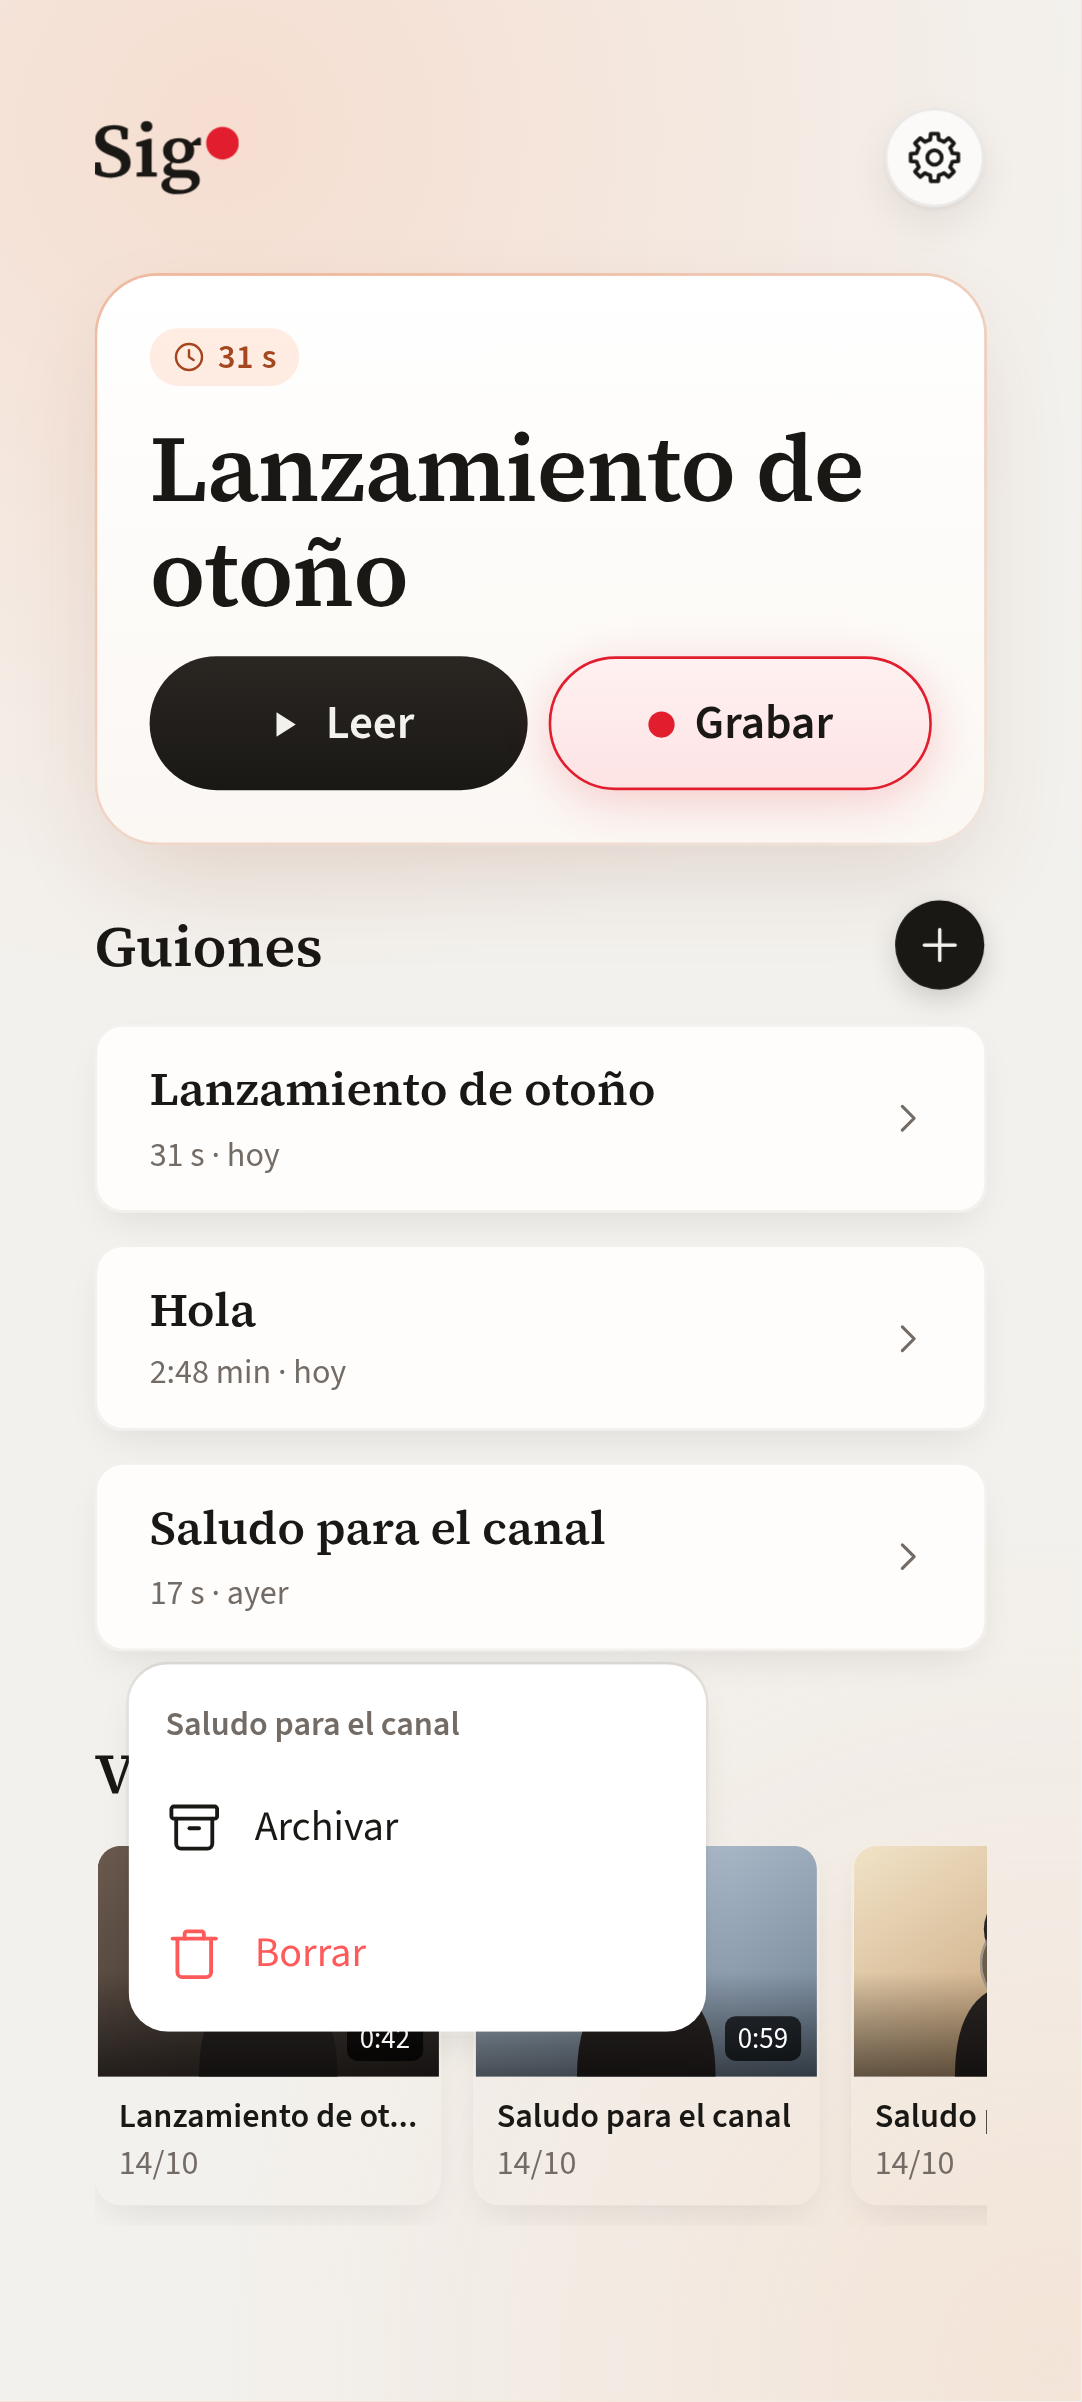
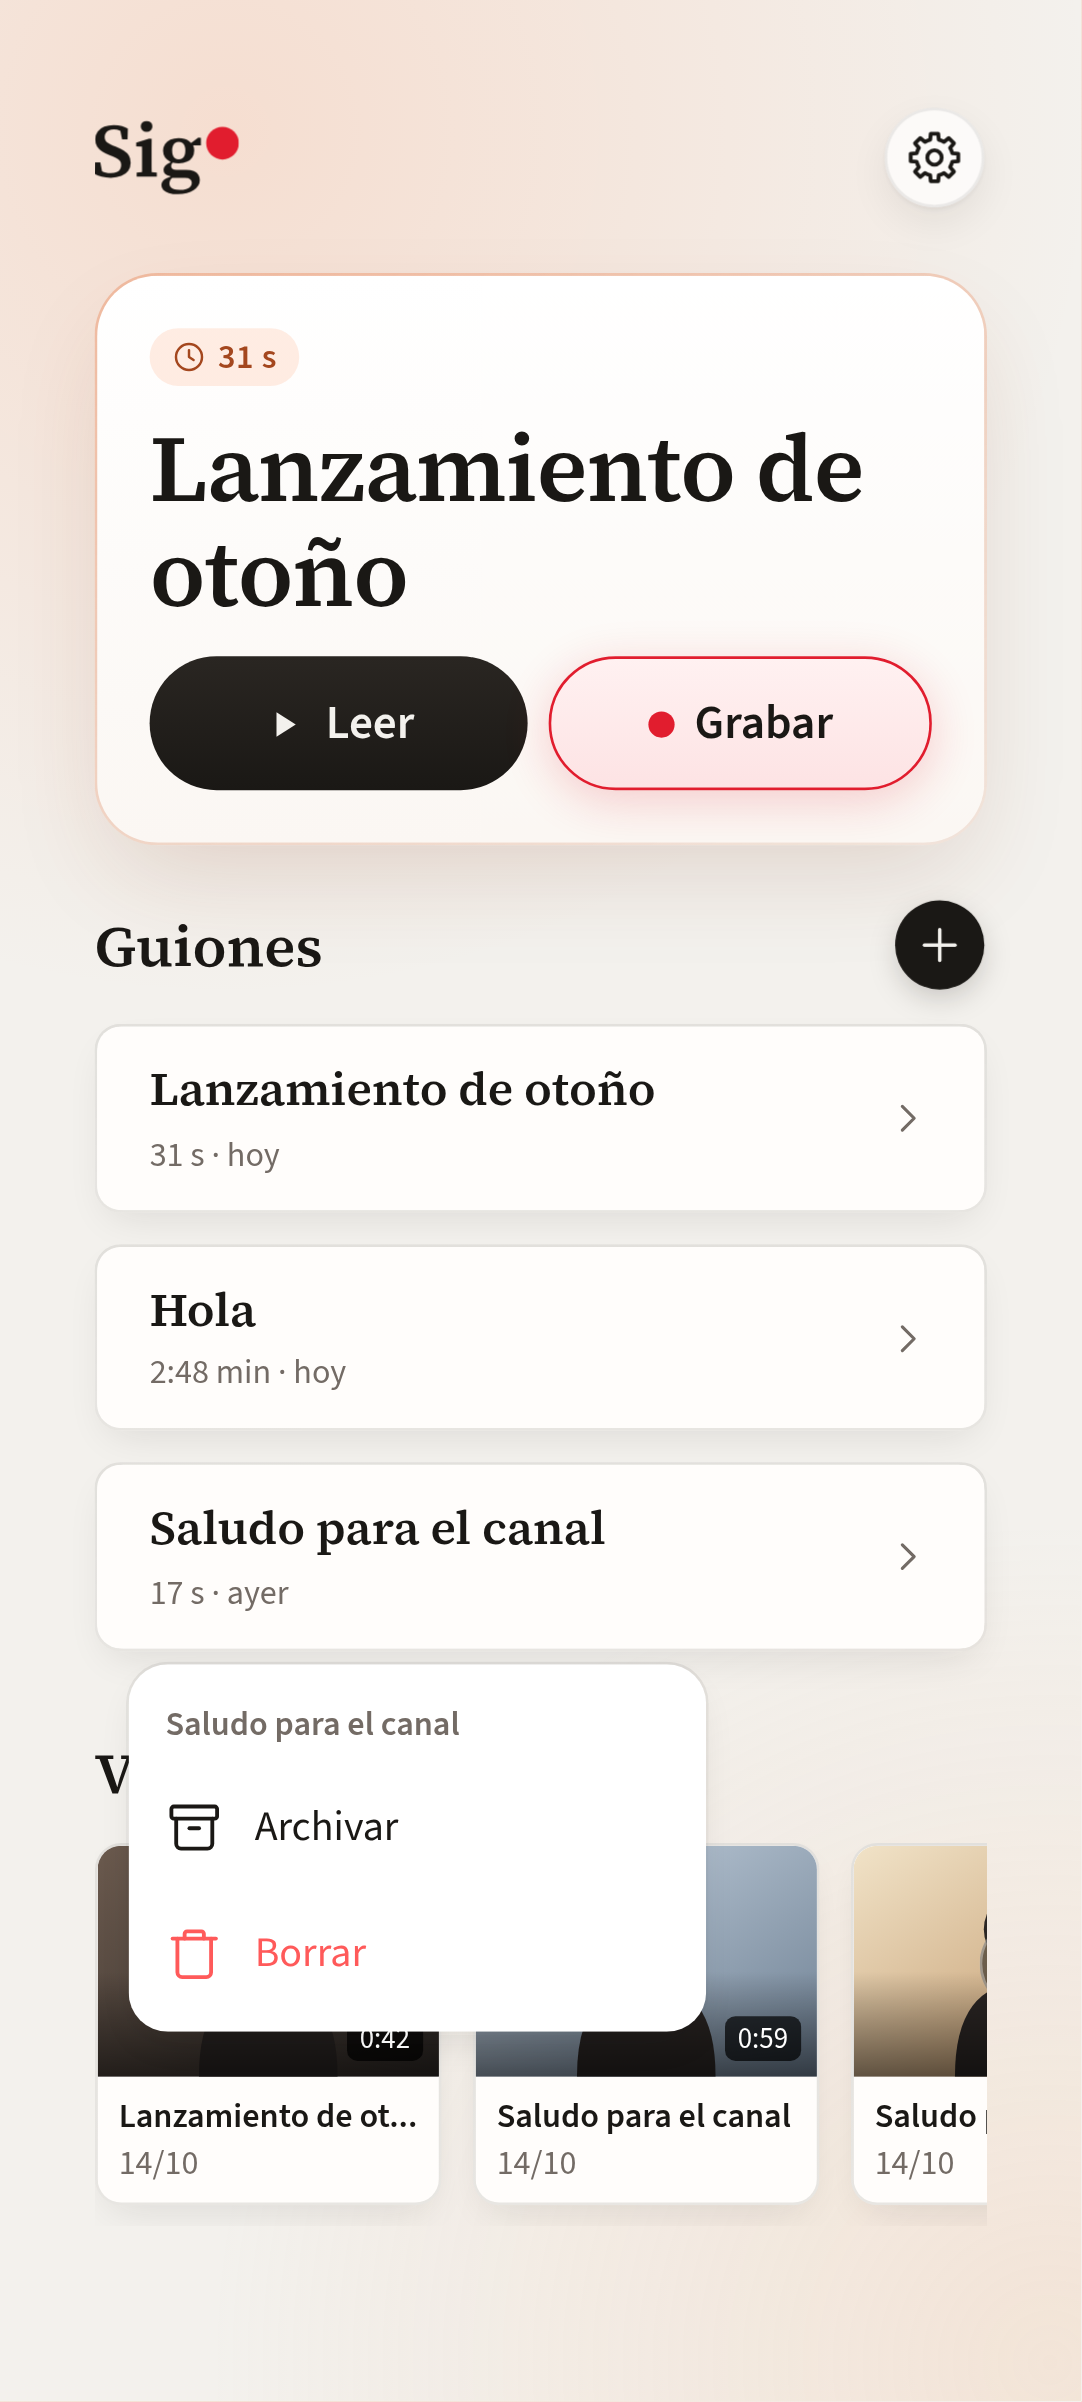
App con luz, tanda 2, segunda vuelta: los dos fondos de la portada -filas y tarjetas de video- valen otra vez -un color solo va en la ultima capa-; .ficha-listo suma el canto, sin sombra; capturas que faltaban

Changed region(s): [[0.5795, 0.843, 0.915, 0.9367]]

diff --git a/src/styles.css b/src/styles.css
@@ -2684,7 +2684,12 @@ button.btn-deformable.miniatura-banda:not(:active) {
    box-shadow var(--sombra-tarjeta); fondo de la fila var(--bg-panel) y del video var(--bg-suelo), en linea. */
 .portada .fila-guion-caja.tarjeta-elevada {
   border: 1px solid transparent;
-  background: var(--sup-fondo) padding-box, var(--sup-canto) border-box;
+  /* Arreglo de la tanda 2, 15-10-2026: un color solo va solo en la ULTIMA capa de un fondo de varias; asi
+     escrita, la declaracion entera quedaba invalida y la caja salia sin fondo NI canto. El color va como
+     gradiente de un tono. Antes: background: var(--sup-fondo) padding-box, var(--sup-canto) border-box; */
+  background-image: linear-gradient(var(--sup-fondo), var(--sup-fondo)), var(--sup-canto);
+  background-origin: border-box;
+  background-clip: padding-box, border-box;
   box-shadow: var(--sup-sombra);
 }
 .portada .fila-guion-caja .fila-guion-cara {
@@ -2692,7 +2697,12 @@ button.btn-deformable.miniatura-banda:not(:active) {
 }
 .portada .tarjeta-video.borde-suave {
   border: 1px solid transparent;
-  background: var(--sup-fondo-video) padding-box, var(--sup-canto) border-box;
+  /* Arreglo de la tanda 2, 15-10-2026: un color solo va solo en la ULTIMA capa de un fondo de varias; asi
+     escrita, la declaracion entera quedaba invalida y la caja salia sin fondo NI canto. El color va como
+     gradiente de un tono. Antes: background: var(--sup-fondo-video) padding-box, var(--sup-canto) border-box; */
+  background-image: linear-gradient(var(--sup-fondo-video), var(--sup-fondo-video)), var(--sup-canto);
+  background-origin: border-box;
+  background-clip: padding-box, border-box;
   box-shadow: var(--sup-sombra);
 }
 /* La tira desplaza de lado: el aire de abajo deja ver la sombra de las tarjetas de video. */

diff --git a/src/styles-ajustes.css b/src/styles-ajustes.css
@@ -74,9 +74,17 @@
   inset: 8px 0;
   /* Antes: border-radius: 8px; */
   border-radius: var(--forma-chica);
-  border: 1px solid var(--borde-tarjeta);
-  background: var(--bg-panel);
-  box-shadow: var(--sombra-tarjeta);
+  /* Tanda 2, 15-10-2026: la pastilla suma el canto --sup-canto, sin sombra -esta dentro de una pantalla,
+     como las tarjetas de seccion-. Va en el ::before, que es la pastilla visible. El color va como
+     gradiente de un tono: un color solo no puede ir en una capa que no sea la ultima. Antes:
+       border: 1px solid var(--borde-tarjeta);
+       background: var(--bg-panel);
+       box-shadow: var(--sombra-tarjeta); */
+  border: 1px solid transparent;
+  background-image: linear-gradient(var(--bg-panel), var(--bg-panel)), var(--sup-canto);
+  background-origin: border-box;
+  background-clip: padding-box, border-box;
+  box-shadow: none;
   pointer-events: none;
 }
 .ficha-listo > * {
@@ -998,8 +1006,13 @@
 }
 .dock-listo .ficha-listo::before {
   border-radius: 999px;
-  background: rgba(255, 255, 255, 0.07);
-  border: 1px solid rgba(255, 255, 255, 0.10);
+  /* Tanda 2, 15-10-2026: el canto --sup-canto, sin sombra, sobre el mismo relleno de vidrio. Antes:
+       background: rgba(255, 255, 255, 0.07);
+       border: 1px solid rgba(255, 255, 255, 0.10); */
+  background-image: linear-gradient(rgba(255, 255, 255, 0.07), rgba(255, 255, 255, 0.07)), var(--sup-canto);
+  background-origin: border-box;
+  background-clip: padding-box, border-box;
+  border: 1px solid transparent;
   box-shadow: none;
 }
 .dock-listo .ficha-listo.abierta::before {
